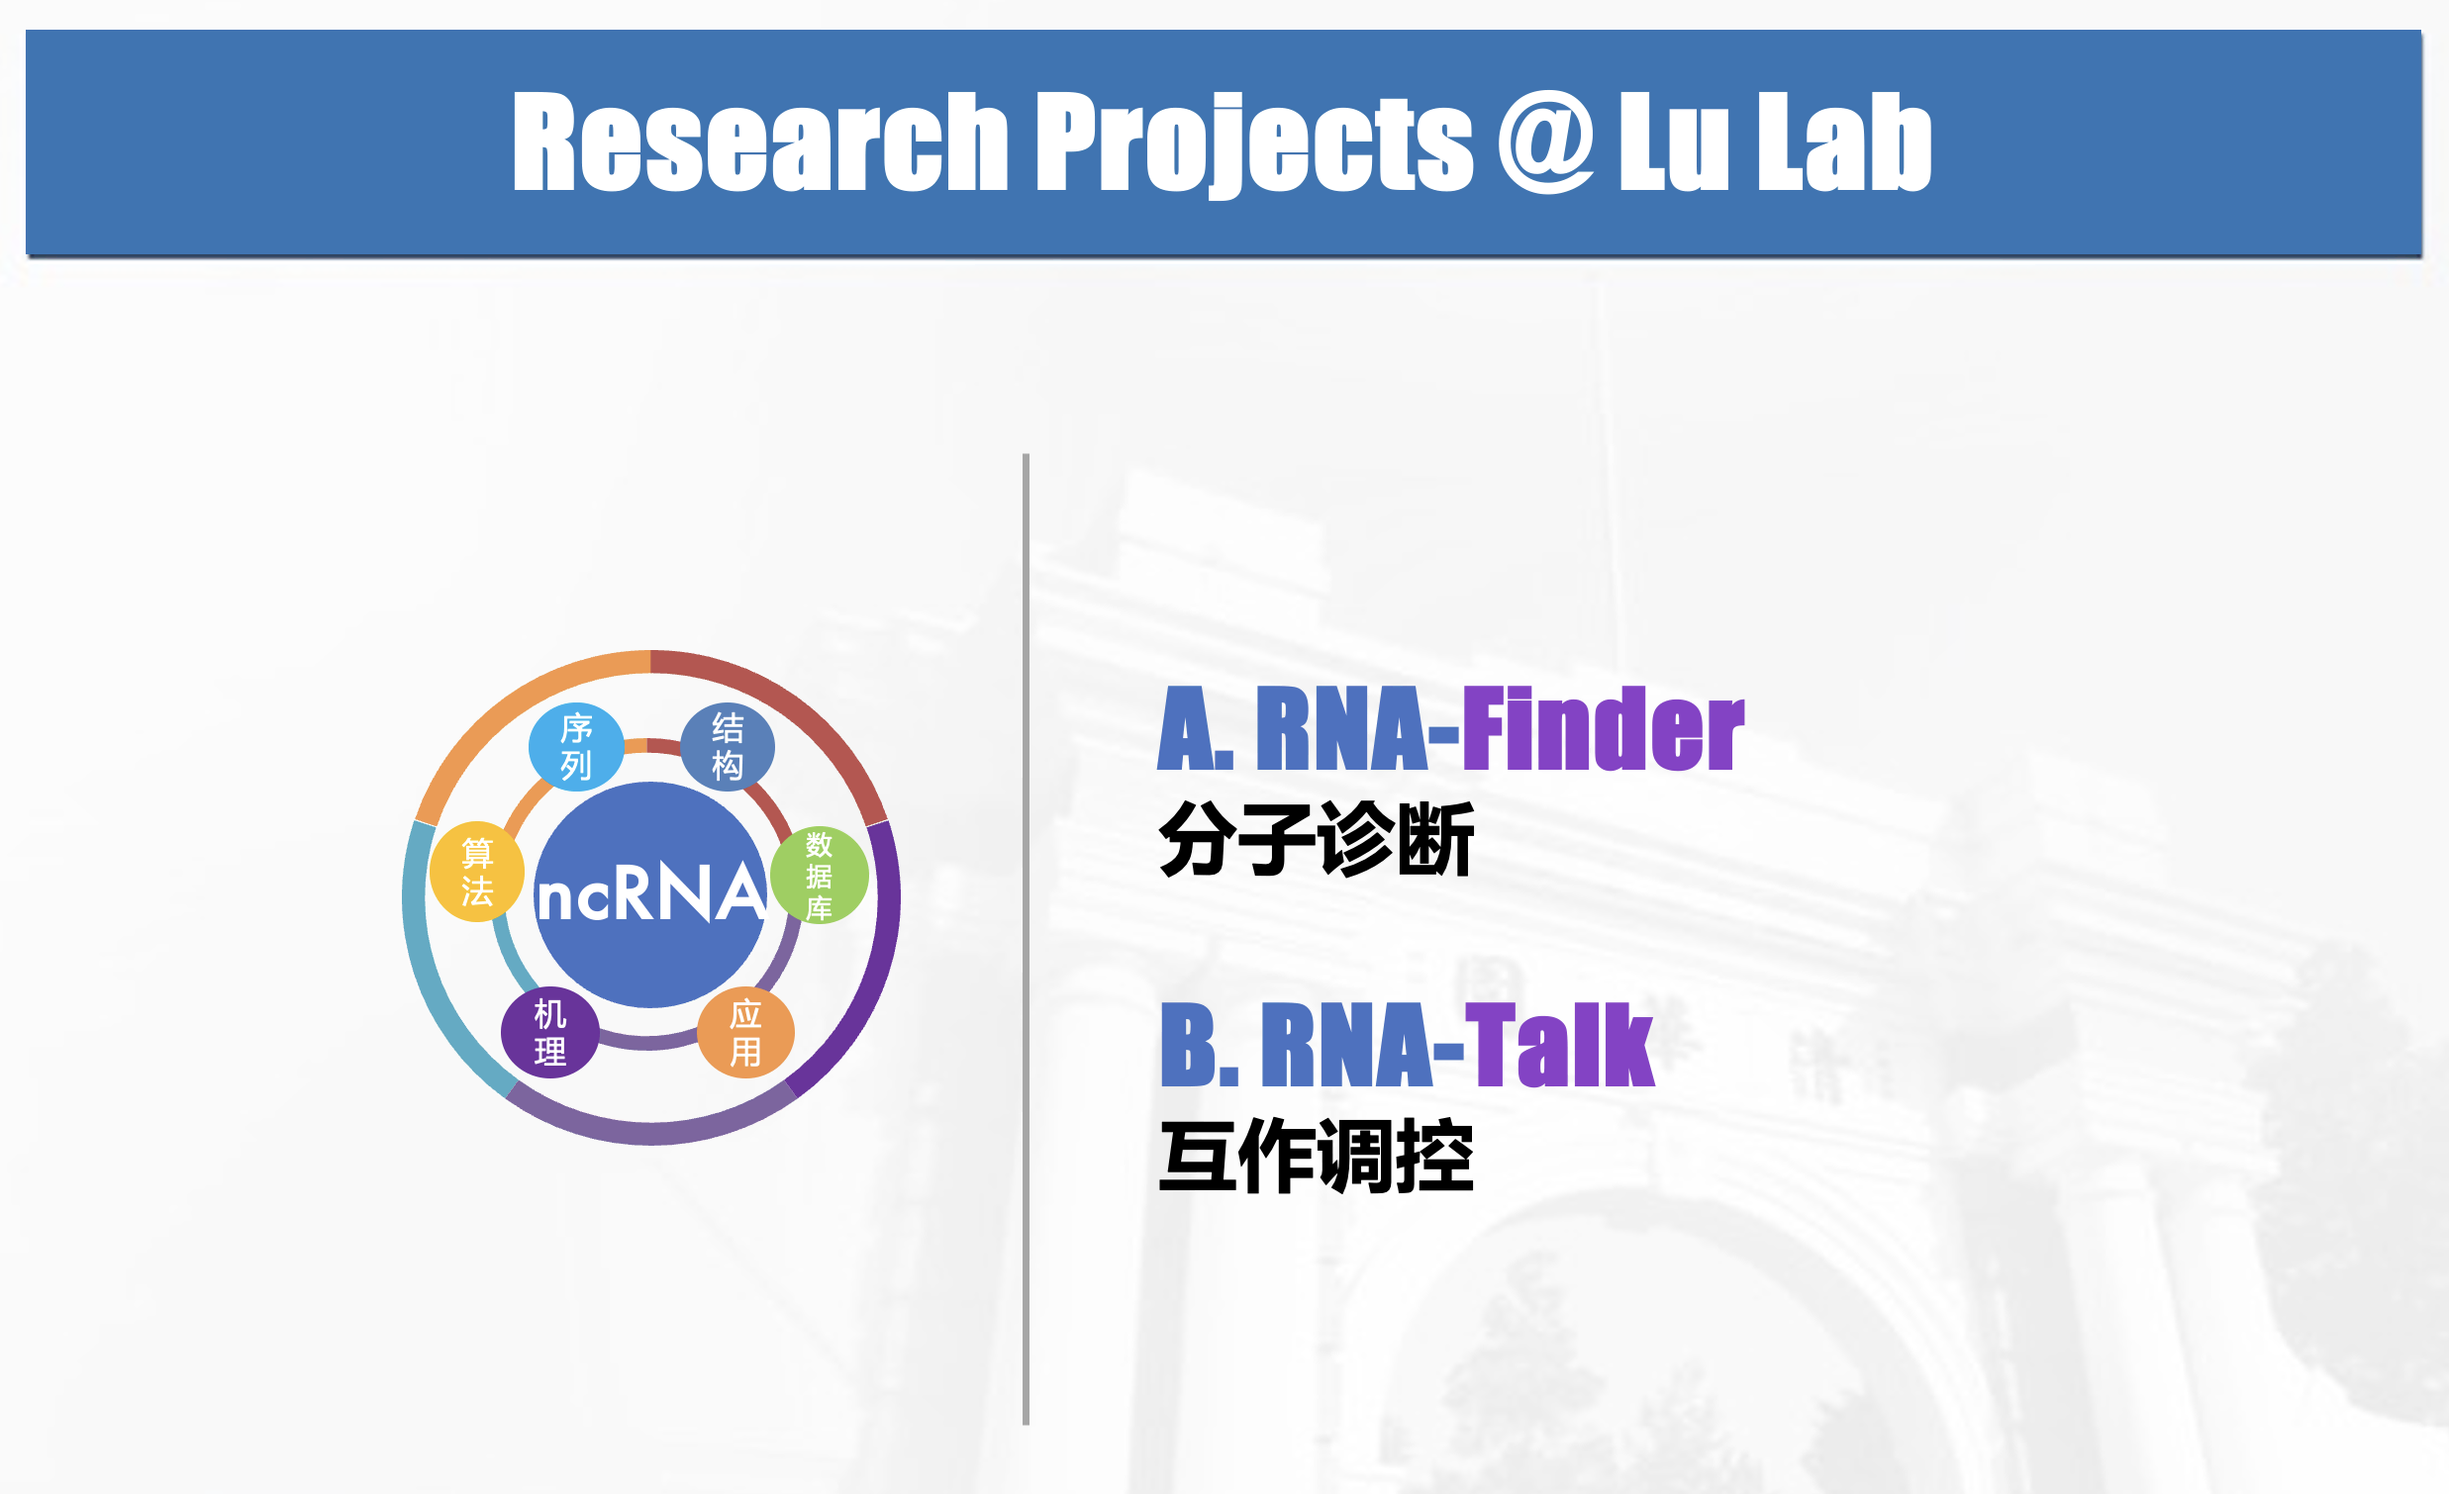
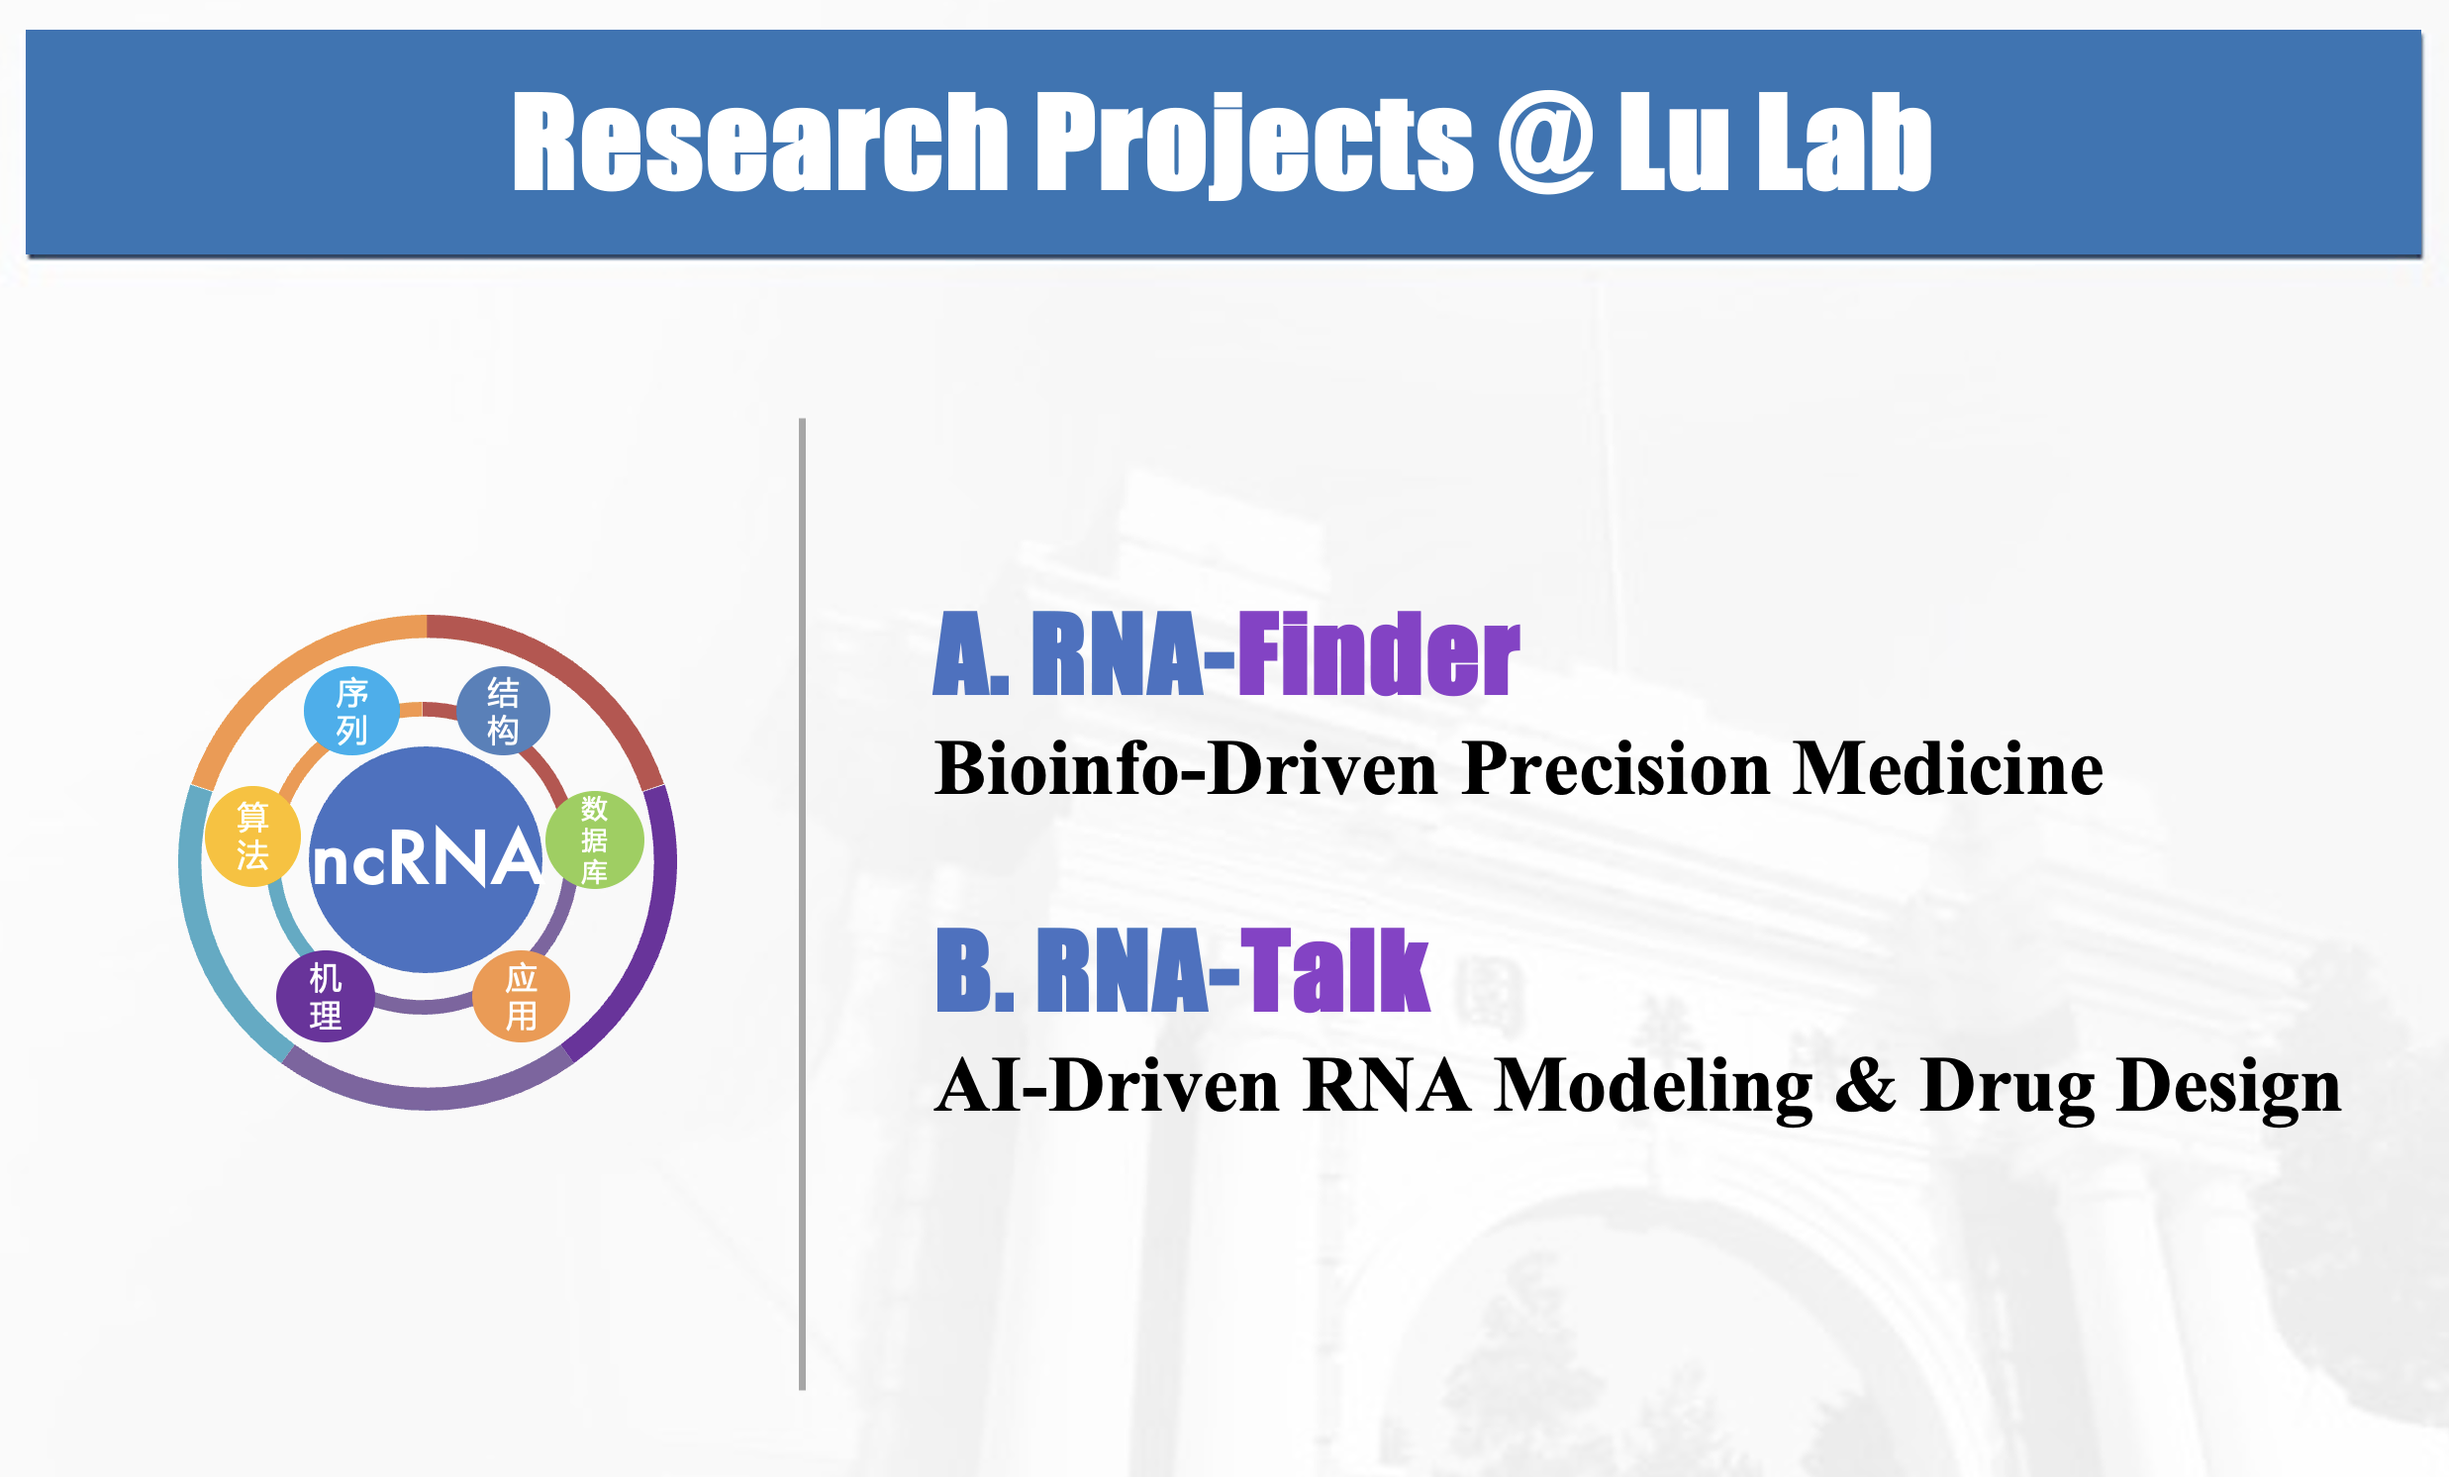
update projects

diff --git a/projects/index.md b/projects/index.md
@@ -28,16 +28,16 @@ We develop **bioinformatics** technology on **noncoding RNAs** from multiple per
 
 ## Research Projects
 
-**We work on two major research projects centered on noncoding RNA (ncRNA): I. RNA-Finder, II. RNA-Talk.**
+**We work on two major research projects centered on noncoding RNA (ncRNA): I. RNA-Finder (Bioinfo-Driven Precision Medicine), II. RNA-Talk (AI-Driven RNA Modeling & Drug Design).**
 
-**我们围绕非编码 RNA（ncRNA）在两个主要的科研方向上进行探索和研究：I. RNA分子诊断 (RNA-Finder)；II. RNA互作调控 (RNA-Talk)。** 
+**我们围绕非编码 RNA（ncRNA）在两个主要的科研方向上进行探索和研究：I. RNA-Finder（生信驱动的精准医疗）；II. RNA-Talk（AI驱动的核酸模型和药物设计）。** 
 
 <div align="middle">
 <img src="projects.webp" style="zoom:30%;" />
 </div>
 
 
-### A. RNA-Finder
+### A. RNA-Finder (Bioinfo-Driven Precision Medicine)
 
 By integrating transcriptomics data with other multiomics data, we aim to explain development of complex diseases based on an integrative, multi-dimensional level.  We develop sequencing and bioinformatics methods to study cellular and extracellular transcriptome of **coding and noncoding RNAs (ncRNAs)** for varous immune cells of patients at the single-cell level and multi-molecular level. 
 
@@ -119,7 +119,7 @@ We apply the above methods to precision medicine, focusing on two types of disea
 
 
 
-### B. RNA-Talk
+### B. RNA-Talk (AI-Driven RNA Modeling & Drug Design)
 
 “**RNA**, not DNA, is **the computational engine of the cell.**” ( [Revolutionary Genetics Research Shows RNA May Rule Our Genome \| *Scientific American*](https://www.scientificamerican.com/article/revolutionary-genetics-research-shows-rna-may-rule-our-genome/) 2024.7. Cover Story) Based on new AI technologies and RNA modeling (RNA-Talk models), we start to discover and understand various molecular interactions and biological regulation network based on RNAs.
 
